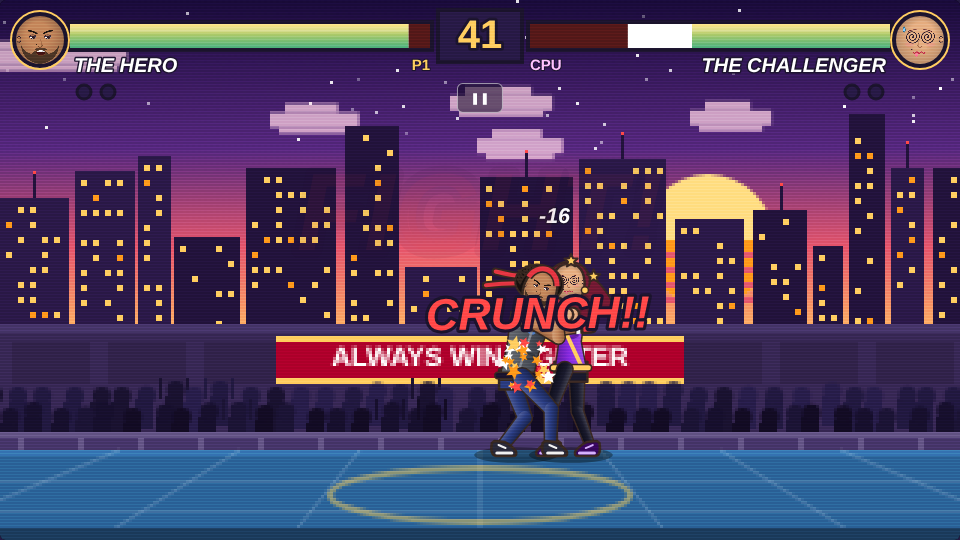
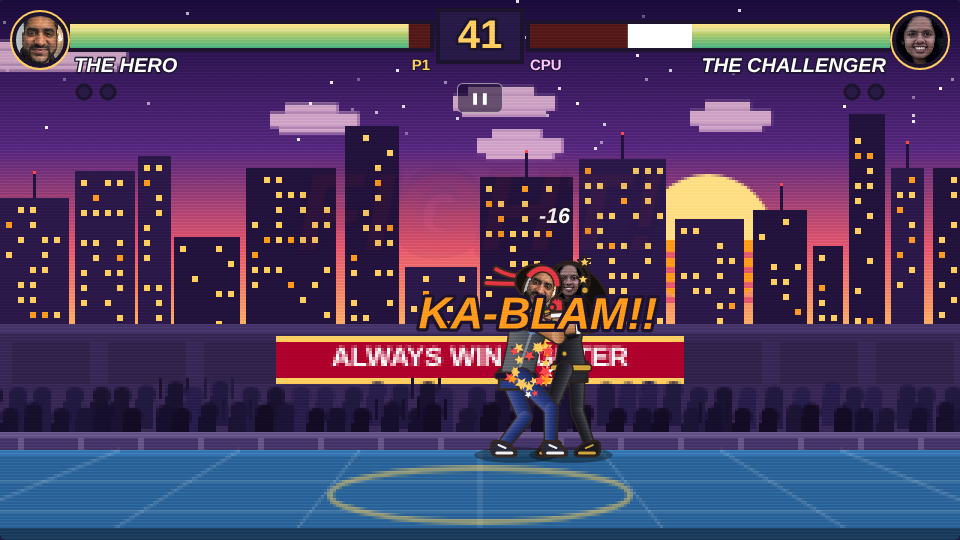
Put the two real faces on the fighters
Ship the Hero's and the Challenger's face photos as the default faces
(assets/faces/*.png via assets/faces/faces.js), restyle the Challenger's
body after her photo (black wavy hair, black sleeveless top with gold
buttons), hide the drawn hair tufts when a photo face is active, and
refresh the README screenshot.

Claude-Session: https://claude.ai/code/session_01CzDMSCEdSKNxTDYf881pzY

diff --git a/game.js b/game.js
@@ -352,11 +352,11 @@ function strokeLine(ctx, x1, y1, x2, y2, width, color) {
 function drawDefaultFace(ctx, size, who, expr) {
   const u = size / 256;
   const hero = who === 'hero';
-  const skin = hero ? '#c98f62' : '#e8b48a';
-  const shade = hero ? '#9a6540' : '#bf8560';
-  const deep = hero ? '#6e4328' : '#9a6346';
+  const skin = hero ? '#c98f62' : '#b97a52';
+  const shade = hero ? '#9a6540' : '#8a5636';
+  const deep = hero ? '#6e4328' : '#5e3a22';
   const ink = '#2a1b2e';
-  const iris = hero ? '#4a2c16' : '#3c8f5e';
+  const iris = hero ? '#4a2c16' : '#3a2214';
   const lipCol = hero ? '#b8695c' : '#c9284f';
 
   ctx.save();
@@ -467,7 +467,7 @@ function drawDefaultFace(ctx, size, who, expr) {
     else if (expr === 'tired') { inner = -3; outerLift = 7; }
     else if (expr === 'dizzy') { inner = -5; outerLift = 3; }
     else if (hero) { inner = 2; }
-    ctx.lineCap = 'round'; ctx.strokeStyle = hero ? '#1d1511' : '#5a1e2b';
+    ctx.lineCap = 'round'; ctx.strokeStyle = hero ? '#1d1511' : '#20150f';
     ctx.lineWidth = hero ? 7.5 : 3.5;
     ctx.beginPath();
     ctx.moveTo(x - outer * 20, browY + inner);
@@ -943,9 +943,9 @@ const STYLES = {
     armW: [15, 12, 9], legW: [18, 13, 10], fistW: 15, hairStyle: 'short',
   },
   challenger: {
-    skin: '#e8b48a', skinShade: '#bf8560', ink: '#3d2a24',
-    top: '#8e2de2', topShade: '#5f179c', topTrim: '#ffd166', pants: '#1b1b2f', pantsShade: '#0e0e1c',
-    belt: '#ffd166', glove: '#c026d3', wrap: '#ffd166', shoe: '#3b0764', shoeTrim: '#d8b4fe', hair: '#7a1b36', band: '#ffd166',
+    skin: '#b97a52', skinShade: '#8a5636', ink: '#2e2420',
+    top: '#23232a', topShade: '#101014', topTrim: '#d4a93c', pants: '#2a2a33', pantsShade: '#15151b',
+    belt: '#d4a93c', glove: '#8b1e3f', wrap: '#d4a93c', shoe: '#1a1a22', shoeTrim: '#d4a93c', hair: '#15100f', band: '#d4a93c',
     torsoW: 31, waistW: 21, hipW: 31, torsoLen: 57, neck: 11, headR: 17,
     upperArm: 28, foreArm: 27, thigh: 42, shin: 41,
     armW: [12, 9, 7], legW: [15, 11, 8], fistW: 12, hairStyle: 'long',
@@ -1180,7 +1180,13 @@ function drawTorso(ctx, st, sk, cy, sy) {
     ctx.moveTo(lerp(topMid.x, tl.x, 0.3), lerp(topMid.y, tl.y, 0.3) + 4); ctx.lineTo(lerp(topMid.x, tl.x, 0.55), lerp(topMid.y, tl.y, 0.55) - 7);   // collar
     ctx.moveTo(lerp(topMid.x, tr.x, 0.3), lerp(topMid.y, tr.y, 0.3) + 4); ctx.lineTo(lerp(topMid.x, tr.x, 0.55), lerp(topMid.y, tr.y, 0.55) - 7);
   } else {
-    ctx.moveTo(lerp(topMid.x, tr.x, 0.75), lerp(topMid.y, tr.y, 0.75) + 4); ctx.lineTo(lerp(bl.x, topMid.x, 0.3), -2);
+    ctx.stroke();
+    ctx.fillStyle = st.topTrim; ctx.strokeStyle = st.ink; ctx.lineWidth = 1;
+    for (let i = 0; i < 3; i++) {                                   // a column of gold buttons
+      const by = lerp(topMid.y + 14, -6, i / 2.5), bx = lerp(topMid.x, (bl.x + br.x) / 2, i / 2.5) + cy * 6;
+      ctx.beginPath(); ctx.arc(bx, by, 2.6, 0, TAU); ctx.fill(); ctx.stroke();
+    }
+    ctx.beginPath();
   }
   ctx.stroke();
   // belt across the hips
@@ -1207,7 +1213,7 @@ function drawHair(ctx, st, R, f) {
     // short hair swept back: a mass above and behind the head with a few tufts
     ctx.strokeStyle = st.ink; ctx.lineWidth = 2; ctx.fillStyle = st.hair;
     ctx.beginPath(); ctx.ellipse(-3, -6, R + 6, R * 1.02, -0.15, 0, TAU); ctx.fill(); ctx.stroke();
-    for (let i = 0; i < 7; i++) {                                  // tousled tufts across the top
+    for (let i = 0; i < (f.photoFace ? 0 : 7); i++) {              // tousled tufts across the top (a photo brings its own hair)
       const a = Math.PI * 1.02 + i * 0.16, len = R + 5 + (i % 3) * 2;
       ctx.beginPath();
       ctx.moveTo(Math.cos(a - 0.08) * (R + 3), Math.sin(a - 0.08) * (R + 3));
@@ -1220,10 +1226,12 @@ function drawHair(ctx, st, R, f) {
     const sw = Math.sin(t * 4) * 3 - (f.vx || 0) * 0.03;
     ctx.beginPath();
     ctx.moveTo(-R * 0.2, -R - 2);
-    ctx.quadraticCurveTo(-R - 8, -R * 0.6, -R - 10 + sw, R * 0.9);
-    ctx.quadraticCurveTo(-R - 12 + sw * 1.5, R * 1.9, -R * 0.3 + sw, R * 2.1);
-    ctx.quadraticCurveTo(R * 0.4 + sw, R * 2.2, R * 0.9 + sw * 0.5, R * 1.6);
-    ctx.quadraticCurveTo(R + 6, R * 0.4, R * 0.6, -R * 0.9);
+    ctx.quadraticCurveTo(-R - 10, -R * 0.6, -R - 8 + sw, R * 0.3);
+    ctx.quadraticCurveTo(-R - 16 + sw, R * 0.9, -R - 9 + sw, R * 1.3);
+    ctx.quadraticCurveTo(-R - 15 + sw * 1.5, R * 1.9, -R * 0.4 + sw, R * 2.25);
+    ctx.quadraticCurveTo(R * 0.5 + sw, R * 2.35, R * 1.0 + sw * 0.5, R * 1.7);
+    ctx.quadraticCurveTo(R * 1.3, R * 1.1, R * 1.05, R * 0.5);
+    ctx.quadraticCurveTo(R + 8, -R * 0.3, R * 0.6, -R * 0.95);
     ctx.closePath(); ctx.fill(); ctx.stroke();
     // strands
     ctx.lineCap = 'round'; ctx.lineWidth = 2; ctx.strokeStyle = st.ink; ctx.globalAlpha = 0.45;
@@ -1470,6 +1478,7 @@ class Fighter {
     this.pose = scaleLegs(this.rawPose);
     this.skel = computeSkeleton(this.pose, this.style);
     this.face = FaceStore.get(this.id, this.currentExpression());
+    this.photoFace = FaceStore.hasCustom(this.id);
 
     // the white "damage just taken" part of the health bar catches up slowly
     this.displayHp += (this.hp - this.displayHp) * Math.min(1, dt * 3);
@@ -2361,7 +2370,7 @@ class Game {
 
   drawFighterPreview(ctx, f, x, feetY, scale, pose, facing) {
     const sp = scaleLegs(pose);
-    const view = { style: f.style, pose: sp, skel: computeSkeleton(sp, f.style), facing, face: FaceStore.get(f.id, 'normal'), animT: this.time, vx: 0 };
+    const view = { style: f.style, pose: sp, skel: computeSkeleton(sp, f.style), facing, face: FaceStore.get(f.id, 'normal'), photoFace: FaceStore.hasCustom(f.id), animT: this.time, vx: 0 };
     ctx.save(); ctx.translate(x, feetY); ctx.scale(scale, scale);
     renderFighter(ctx, view);
     ctx.restore();

diff --git a/assets/faces/faces.js b/assets/faces/faces.js
@@ -1,10 +1,11 @@
 /*
- * Optional drop-in faces for your copy of the game (feature: custom faces).
+ * Drop-in faces for this copy of the game (feature: custom faces).
  *
- * Put image files in this folder and point to them here, for example:
- *   window.AWF_FACES = { hero: 'assets/faces/hero.png', challenger: 'assets/faces/challenger.jpg' };
+ * Point a fighter at an image file in this folder, or set it to null to use the
+ * built-in drawn face. The image is cover-fitted onto the head, so a tight crop
+ * around the face (hairline to chin) looks best.
  *
- * Leave a value as null to keep the built-in cartoon face. A face uploaded by a
- * player in the "Customize Fighters" screen always takes priority over these.
+ * A face uploaded by a player in the "Customize Fighters" screen always takes
+ * priority over these.
  */
-window.AWF_FACES = { hero: null, challenger: null };
+window.AWF_FACES = { hero: 'assets/faces/hero.png', challenger: 'assets/faces/challenger.png' };

diff --git a/README.md b/README.md
@@ -39,6 +39,11 @@ bigger arena.
 
 ### The fighters
 
+This copy ships with real photos on both fighters (`assets/faces/hero.png` and
+`assets/faces/challenger.png`, wired up in `assets/faces/faces.js`). Delete those two lines or set
+them to `null` to go back to the drawn faces.
+
+
 - **The Hero** (player 1): short tousled black hair, a trimmed beard, thick brows, a red headband,
   hand wraps and a charcoal jacket over a blue tee. Record 999 - 0.
 - **The Challenger** (computer): long hair, fingerless gloves, trained for years, trips a lot.
